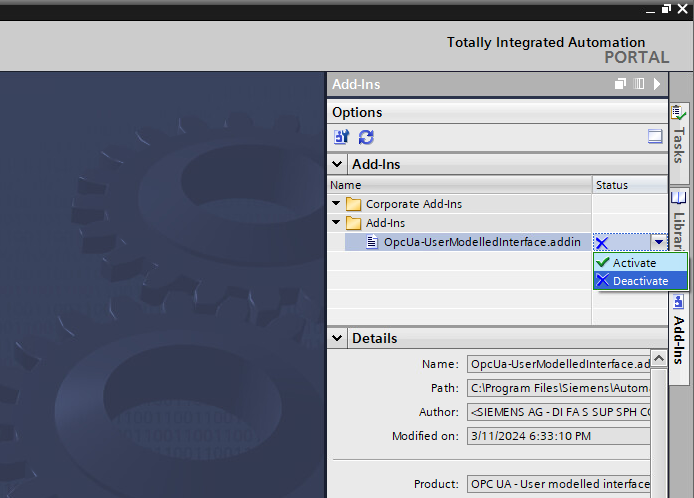
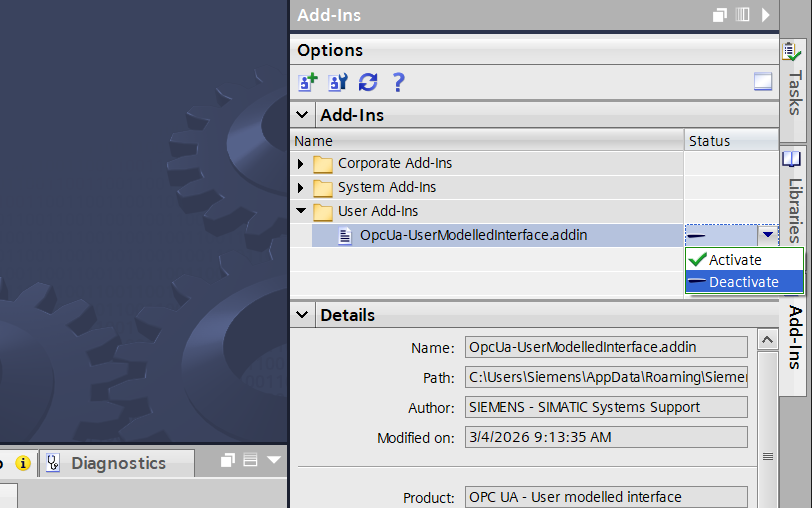
TIA Portal V21 AddIn - README and CHANGELOG updated

diff --git a/README.md b/README.md
@@ -4,12 +4,11 @@
   <strong>What's new with V2.0.0</strong>
   <ul>
     <li><strong>TIA Portal Compatibility</strong>: This specific package of the add-in V2.0.0 is <strong>fully and exclusive compatible with TIA Portal V21</strong>. </li>
-    <li><strong>Feature set</strong>: This V2.0.0 package includes all features introduced in the V1.1.3 release.</li>
-  </ul>
-  <strong>Check what's new in <a href="CHANGELOG.md">V2.0.0</a></strong>
+  <strong>
+  Check what's new in <a href="CHANGELOG.md">V2.0.0</a></strong>
 </div>
 
-For a complete and detailed list of all changes, including architectural improvements and compatibility updates, please refer to the [CHANGELOG.md](CHANGELOG.md) included in this package.
+Note: This add-in is only for TIA Portal V21. To use previous TIA Portal versions switch to <strong>tia-addin-opc-ua-modelled-interface-V20</strong> branch.
 
 ## Description
 This Add-In has been developed to streamline the creation of user-modeled interfaces for OPC UA servers. By browsing through the TIA Portal project, it incorporates all variables that are accessible via OPC UA and arranges them in a structured manner, eliminating the need for manual configuration and significantly reducing the time and effort required.
@@ -26,7 +25,6 @@ The main goals of the Add-In are:
 2. [Usage](#usage)
 3. [Features](#features)
 4. [How it works](#how-it-works)
-5. [Tia Portal version](#tia-portal-version)
 
 <a name="installation"></a>
 ## Installation
@@ -35,14 +33,14 @@ Follow these steps to carry out the installation process:
 
 1. Download the repository to the local machine.
 2. Open Visual Studio, selecting the option: "Run as Administrator".
-3. Ensure that all necessary references are included in the project **AddinOpcUaInterface**. If any references are missing, select the Openness DLL files from TIA Portal version V19 as your reference source.
-4. Build the solution. The post-build event command will automatically transfer the .addin file to the **C:\Program Files\Siemens\Automation\Portal V19\AddIn** directory.
+3. Ensure that all necessary references are included in the project **AddinOpcUaInterface**. If any references are missing, select the Openness DLL files from TIA Portal version V21 as your reference source.
+4. Build the solution. The post-build event command will automatically transfer the .addin file to the **C:\Users\Siemens\AppData\Roaming\Siemens\Automation\Portal V21\UserAddIns** directory.
 
-**NOTE:** If TIA Portal version V17 or V18 is being used, please refer to the instructions described in [Chapter 4](#tia-portal-version).
+**NOTE:** For TIA Portal previous versions, please use the addin-opc-ua-modelled-interface-V20 branch.
 
 <a name="usage"></a>
 ## Usage
-To use the Add-In in TIA Portal, make sure that the **OpcUa-UserModelledInterface.addin** file is located in the following directory: **C:\Program Files\Siemens\Automation\Portal V19\AddIns**. 
+To use the Add-In in TIA Portal, make sure that the **OpcUa-UserModelledInterface.addin** file is located in the following directory: **"C:\Users\Siemens\AppData\Roaming\Siemens\Automation\Portal V21\UserAddIns**. 
 
 Then, proceed with the following steps:
 
@@ -118,142 +116,6 @@ The Add-In utilizes the Openness API to access information stored in the TIA Por
     <img src="media/flowchart_v2-add-in.png" alt="Flowchart of the Add-In" width="1000" />
 </div>
 
-<a name="tia-portal-versions"></a>
-## TIA Portal version
-
-The Add-In is designed to run on TIA Portal V19, but it can be adapted to run on TIA Portal version V17 and V18. To do so:
-- Update the references of the project **AddinOpcUaInterface**. Use the Openness DLL file "Siemens.Engineering.Addin" from TIA Portal versions V17 or V18 as your reference source. 
-
-    **NOTE**: Openness has backward compatibility. This means that an Add-In built with the DLL files from TIA Portal V17 can also run on TIA Portal V18, V19 and future versions.
-- Change the post-build event command to: 
-    ```
-    copy "$(ProjectDir)AddInPublisherConfig.xml" "$(TargetDir)AddInPublisherConfig.xml" /Y 
-    "C:\Program Files\Siemens\Automation\Portal V1X\PublicAPI\V1X.AddIn\Siemens.Engineering.AddIn.Publisher.exe" -f "$(TargetDir)AddInPublisherConfig.xml" -l "$(TargetDir)PostBuildLog.txt" -v -c -o "C:\Program Files\Siemens\Automation\Portal V1X\AddIns\OpcUa-UserModelledInterface.addin"
-    ```
-    **NOTE**: Replace the placeholder "Portal V1X" with the specific version of TIA Portal installed on your machine. For example, if TIA Portal V18 is installed, replace "Portal V1X" with "Portal V18". Similarly, update "V1X.AddIn" to match the version of the Openness DLL files selected in the previous step. If the selected DLL files are those from TIA Portal V17, change "V1X.AddIn" to "V17.AddIn".
-
-- Replace the content in the **AddInPublisherConfig.xml** file.
-
-    For TIA V19:
-
-        <PackageConfiguration xmlns="http://www.siemens.com/automation/Openness/AddIn/Publisher/V19">
-            <Author>&lt;SIEMENS AG - DI FA S SUP SPH COM&gt;</Author>
-            <AddInVersion>V19</AddInVersion>
-            <Description>Automatically create user modelled interfaces for OPC UA servers.</Description>
-            <DisplayInMultiuser />
-            
-            <Product>
-                <Name>OPC UA - User modelled interface</Name>
-                <Id>tia_add_in_opc_ua_interface</Id>
-                <Version>1.1.0</Version>
-            </Product>
-
-            <FeatureAssembly>
-                <AssemblyInfo>
-                <Assembly>AddInOpcUaInterface.dll</Assembly>
-                </AssemblyInfo>
-            </FeatureAssembly>
-
-            <AdditionalAssemblies>
-                <AssemblyInfo>
-                    <Assembly>AddInOPCUAInterface.UI.dll</Assembly>
-                </AssemblyInfo>
-            </AdditionalAssemblies>
-
-            <!--Please check required permissions-->
-            <RequiredPermissions>
-                <TIAPermissions>
-                <TIA.ReadWrite/>
-                </TIAPermissions>
-                <UnrestrictedPermissions>
-                    <System.UnrestrictedAccess>
-                        <JustificationComment>Needed for the execution of the "OPC UA - User Modelled Interface" Add-In</JustificationComment>
-                    </System.UnrestrictedAccess>
-                </UnrestrictedPermissions>
-            </RequiredPermissions>
-        </PackageConfiguration>
-    
-    For TIA V18:
-
-        <PackageConfiguration xmlns="http://www.siemens.com/automation/Openness/AddIn/Publisher/V18">
-            <Author>&lt;SIEMENS AG - DI FA S SUP SPH COM&gt;</Author>
-            <AddInVersion>V18</AddInVersion>
-            <Description>Automatically create user modelled interfaces for OPC UA servers.</Description>
-            <DisplayInMultiuser />
-            
-            <Product>
-                <Name>OPC UA - User modelled interface</Name>
-                <Id>tia_add_in_opc_ua_interface</Id>
-                <Version>1.1.0</Version>
-            </Product>
-
-            <FeatureAssembly>
-                <AssemblyInfo>
-                <Assembly>AddInOpcUaInterface.dll</Assembly>
-                </AssemblyInfo>
-            </FeatureAssembly>
-
-            <AdditionalAssemblies>
-                <AssemblyInfo>
-                    <Assembly>AddInOPCUAInterface.UI.dll</Assembly>
-                </AssemblyInfo>
-            </AdditionalAssemblies>
-
-            <!--Please check required permissions-->
-            <RequiredPermissions>
-            <TIAPermissions>
-                <TIA.ReadWrite/>
-            </TIAPermissions>
-            <SecurityPermissions>
-                <System.Security.Permissions.SecurityPermission.UnmanagedCode/>
-                <System.Security.Permissions.FileDialogPermission/>
-                <System.Security.Permissions.UIPermission/>
-                <System.Security.Permissions.MediaPermission/>
-                <System.Security.Permissions.FileIOPermission/>
-            </SecurityPermissions>
-        </RequiredPermissions>
-        </PackageConfiguration>
-
-    For TIA V17:
-
-        <PackageConfiguration xmlns="http://www.siemens.com/automation/Openness/AddIn/Publisher/V17">
-            <Author>&lt;SIEMENS AG - DI FA S SUP SPH COM&gt;</Author>
-            <AddInVersion>V17</AddInVersion>
-            <Description>Automatically create user modelled interfaces for OPC UA servers.</Description>
-            <DisplayInMultiuser />
-            
-            <Product>
-                <Name>OPC UA - User modelled interface</Name>
-                <Id>tia_add_in_opc_ua_interface</Id>
-                <Version>1.1.0</Version>
-            </Product>
-
-            <FeatureAssembly>
-                <AssemblyInfo>
-                <Assembly>AddInOpcUaInterface.dll</Assembly>
-                </AssemblyInfo>
-            </FeatureAssembly>
-
-            <AdditionalAssemblies>
-                <AssemblyInfo>
-                    <Assembly>AddInOPCUAInterface.UI.dll</Assembly>
-                </AssemblyInfo>
-            </AdditionalAssemblies>
-
-            <!--Please check required permissions-->
-            <RequiredPermissions>
-            <TIAPermissions>
-                <TIA.ReadWrite/>
-            </TIAPermissions>
-            <SecurityPermissions>
-                <System.Security.Permissions.SecurityPermission.UnmanagedCode/>
-                <System.Security.Permissions.FileDialogPermission/>
-                <System.Security.Permissions.UIPermission/>
-                <System.Security.Permissions.MediaPermission/>
-                <System.Security.Permissions.FileIOPermission/>
-            </SecurityPermissions>
-        </RequiredPermissions>
-        </PackageConfiguration>
 
 # Reference links
 

diff --git a/CHANGELOG.md b/CHANGELOG.md
@@ -3,6 +3,8 @@ All changes to the project are documented in this file.
 
 ## [V2.0.0] - 2026/03/04
 ### Changed
+- **TIA Portal V20+ Compatibility**: Migrate ProjectFields and AddInFields to a new 'ExecutionContext' class to eliminate reliance on static.
+- **Node Accumulation**: Implemented clearing of internal data collections at the beginning of each execution to guarantee accurate counts and expected results.
 - **TIA Portal Compatibility**: Adapted internal references and dependencies to ensure full compatibility with TIA Portal V21. It is not designed for or compatible with other versions of TIA Portal. Please ensure you are using TIA Portal V21 for proper functionality with this release. 
     *No functional changes or new features compared to V2.0.0 release for TIA Portal V20.
 
